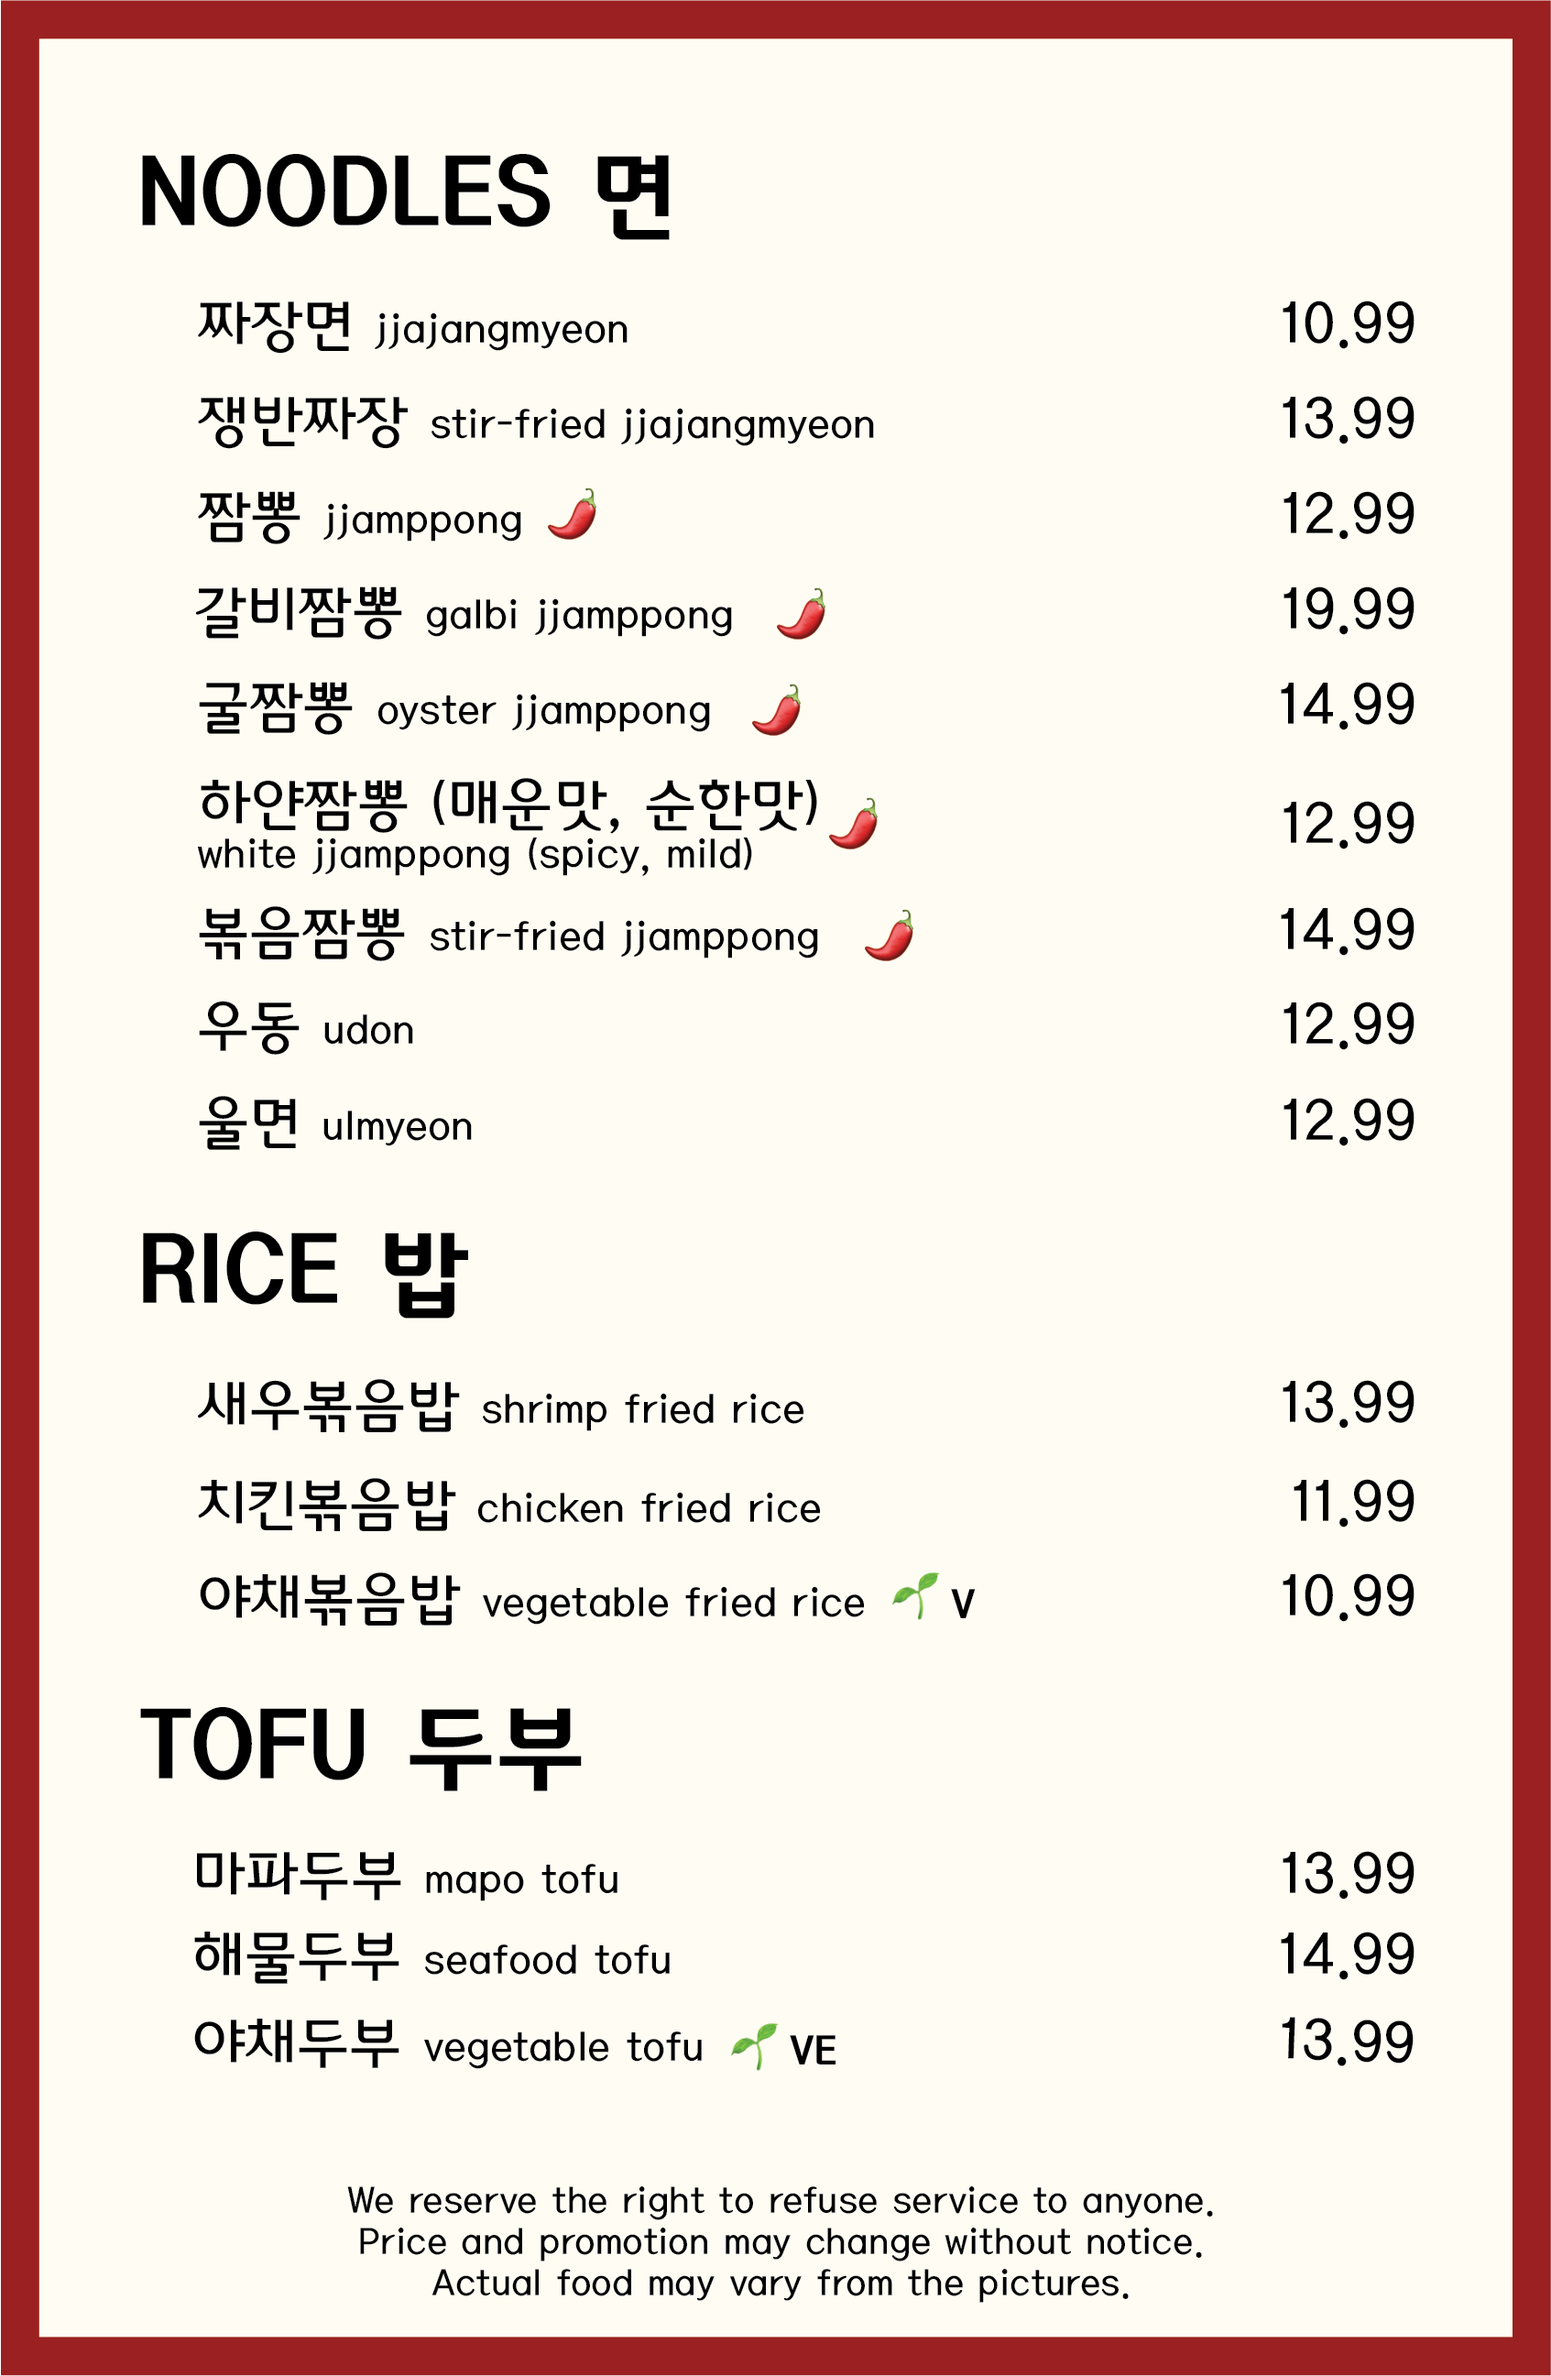
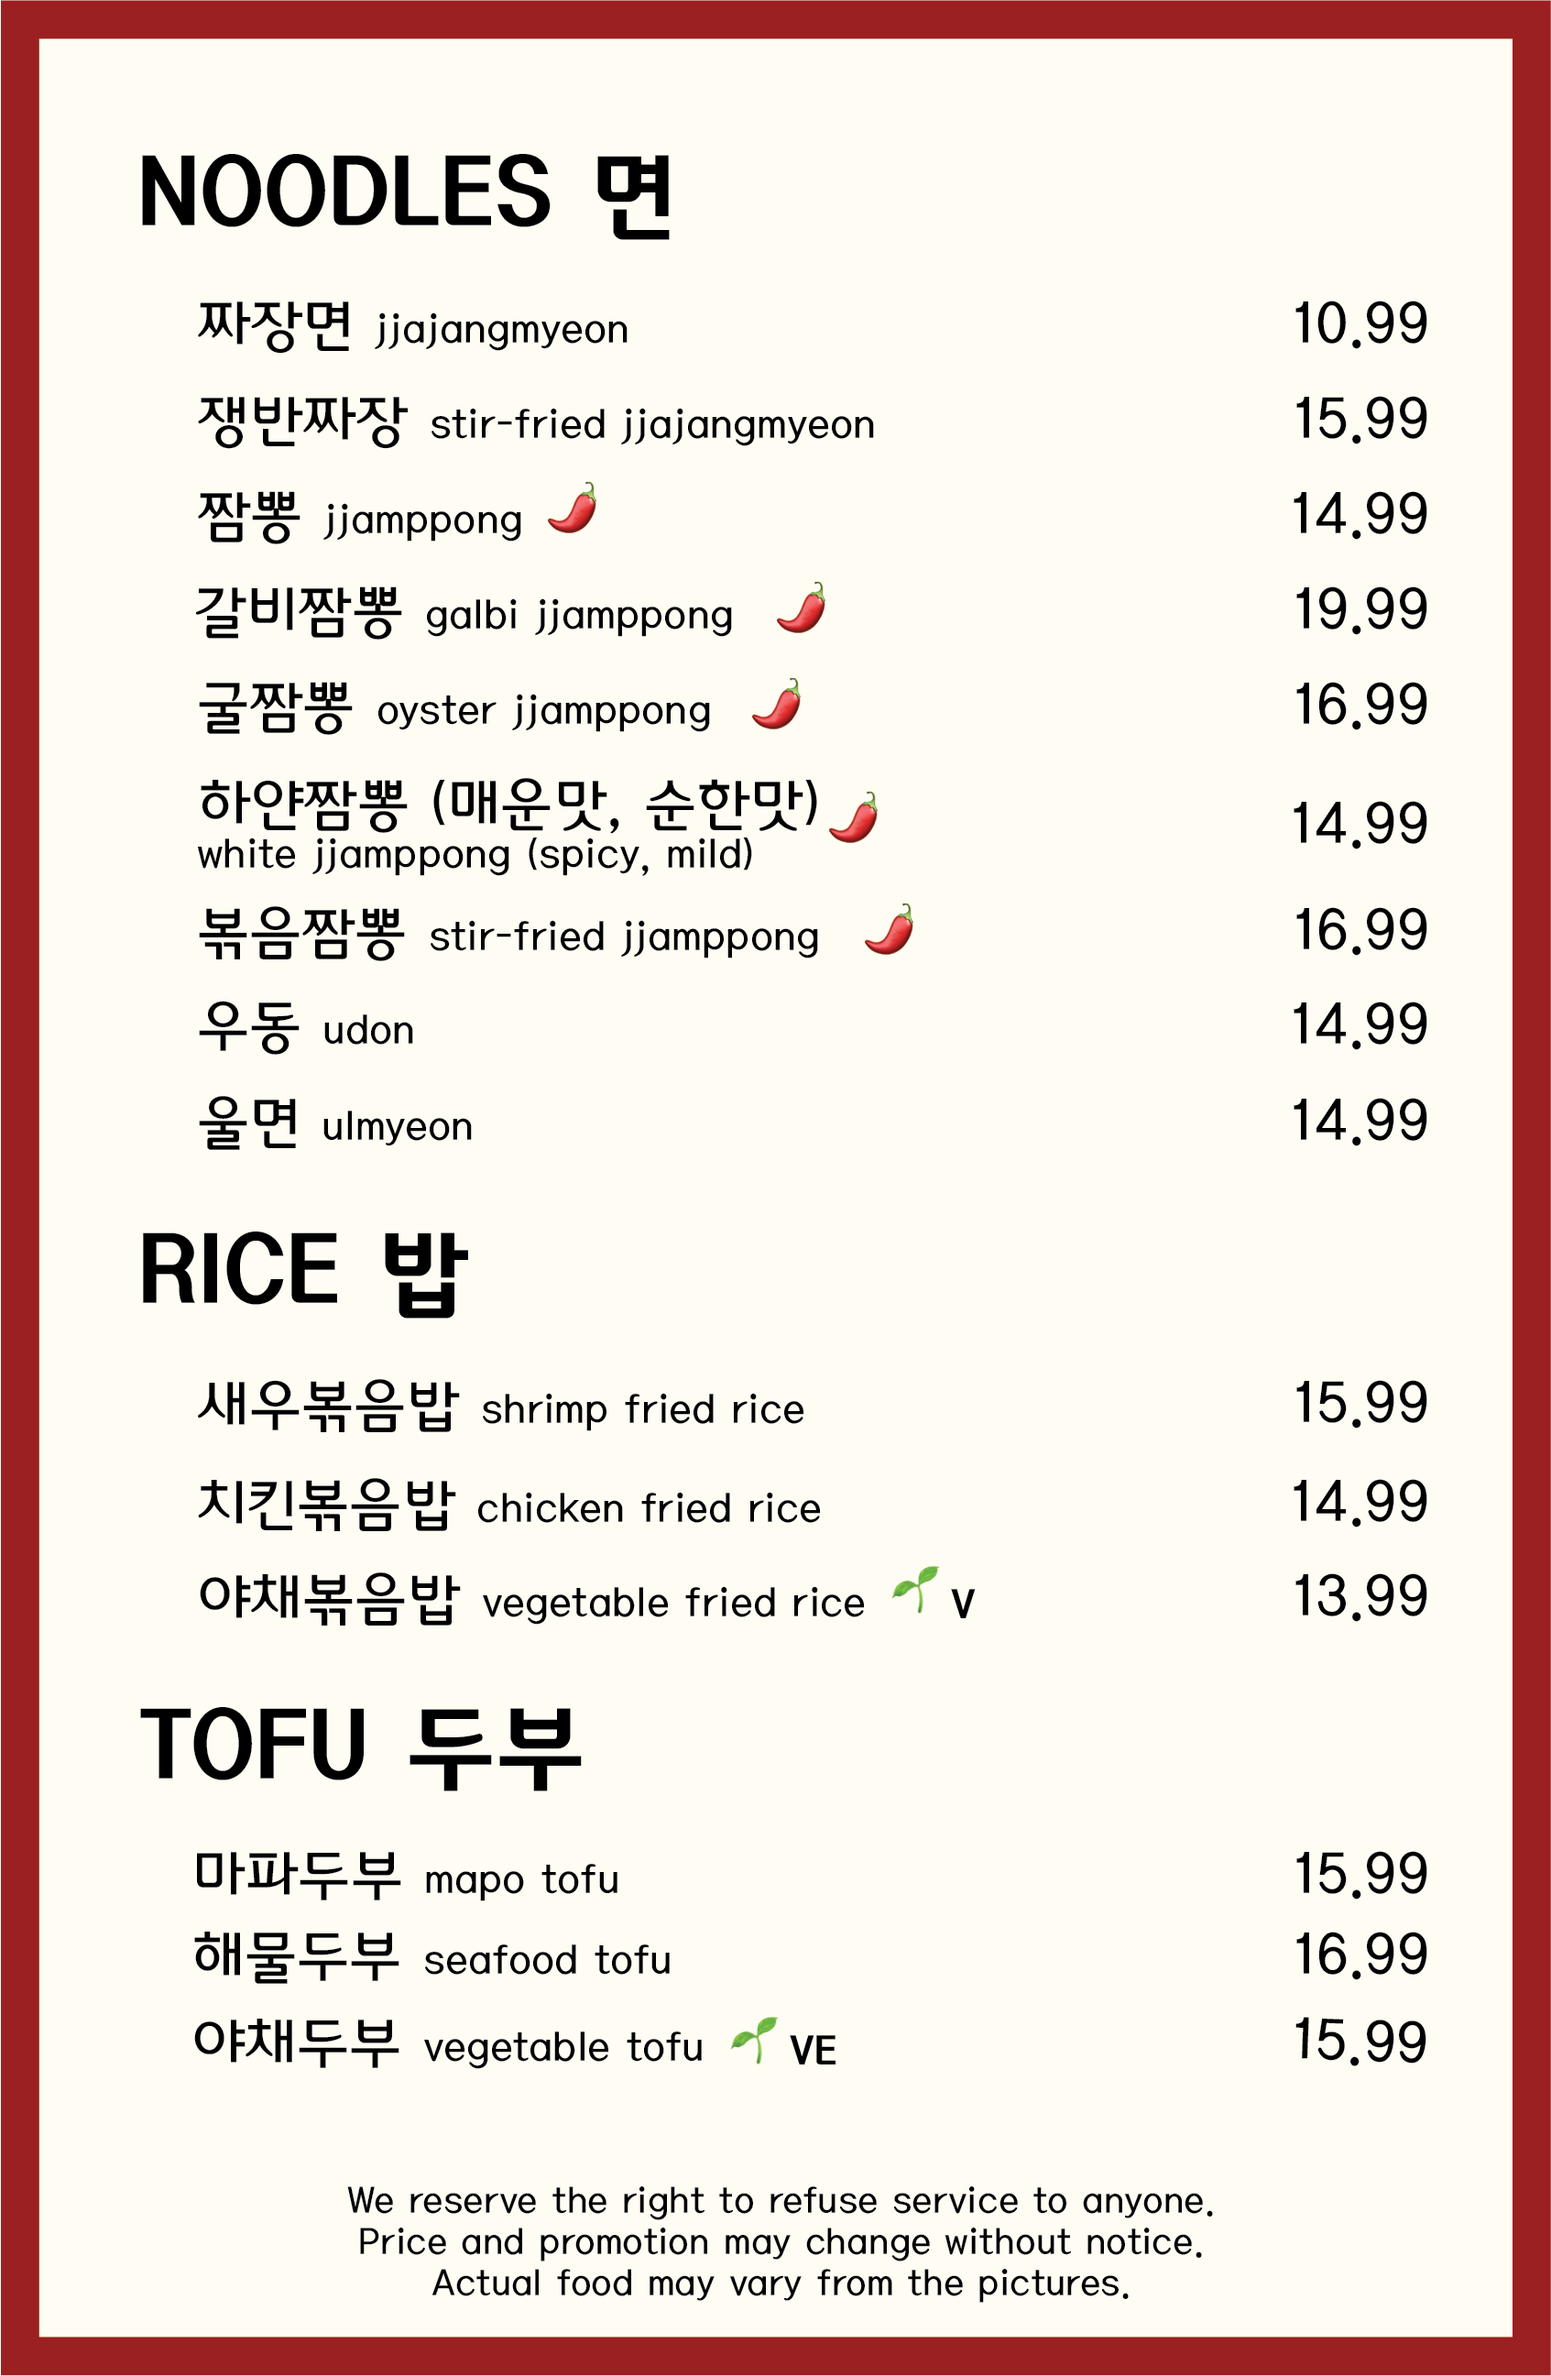
new price

diff --git a/index.html b/index.html
@@ -41,7 +41,7 @@
                 
             </div>
             <div class="content">
-                <img class="images" src="images/beansoup.png" alt="jjamppong">
+                <!--<img class="images" src="images/beansoup.png" alt="jjamppong">-->
                 <img class="images" src="images/picturemenu.png" alt="jjajangmyeon">
                 <!--<img class="images" src="images/jjbuilding.png" alt="찐짜장">-->
             </div>
